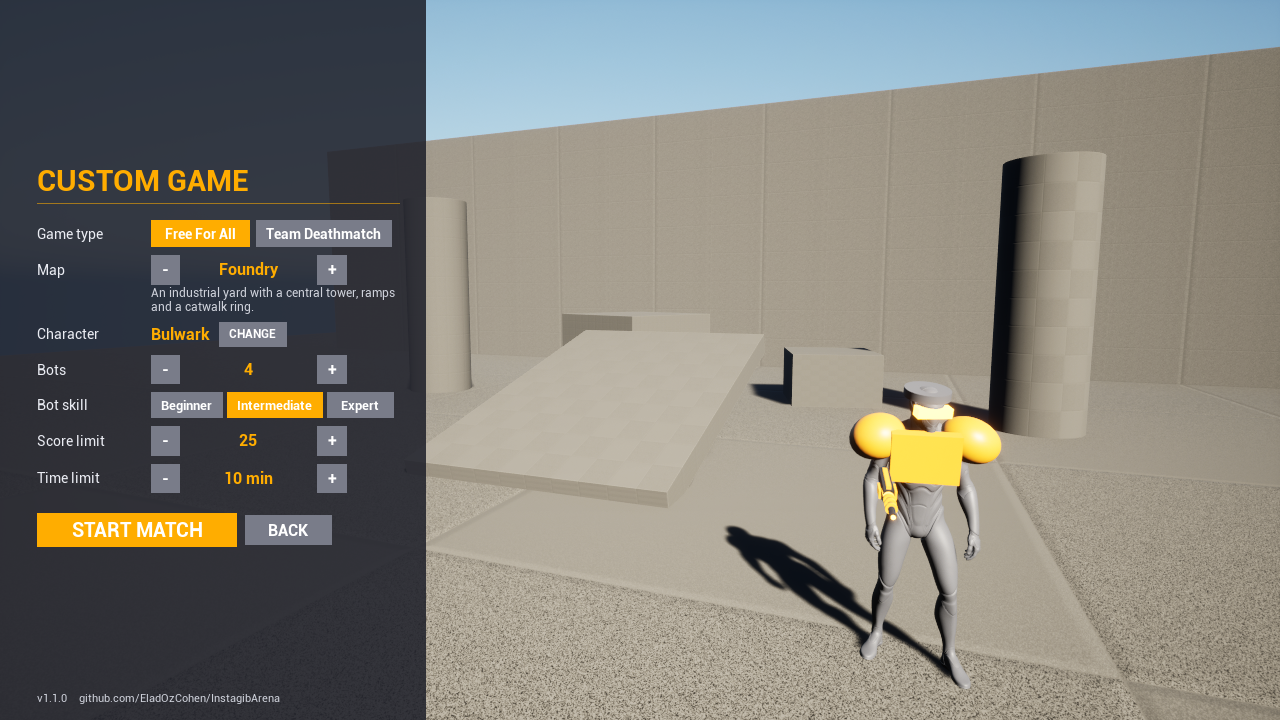
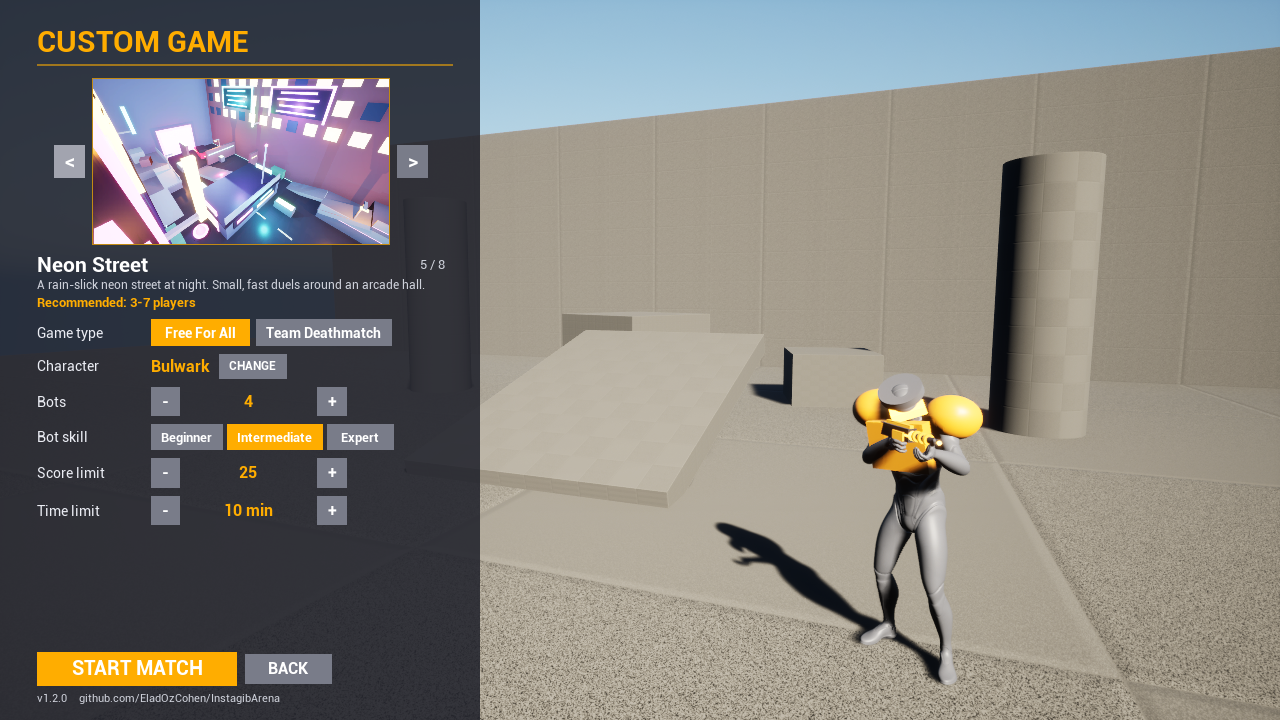
Release 1.2.0 prep: screenshots, clean mannequin restore (no control rigs, no nesting)

diff --git a/README.md b/README.md
@@ -58,8 +58,10 @@ Requirements: Windows 10 or 11 (64-bit) and a graphics card that supports Direct
 
 | | |
 |---|---|
-| ![Skyline](docs/images/skyline.png) | ![Temple](docs/images/temple.png) |
-| ![First person](docs/images/first_person.png) | ![Hit effects](docs/images/hit_effects.png) |
+| ![Neon Street](docs/images/neon.png) | ![Canyon](docs/images/canyon.png) |
+| ![Glacier](docs/images/glacier.png) | ![Skyline](docs/images/skyline.png) |
+| ![Temple](docs/images/temple.png) | ![First person](docs/images/first_person.png) |
+| ![Hit effects](docs/images/hit_effects.png) | |
 | ![Characters 5-9](docs/images/characters_5-9.png) | ![Characters 10-14](docs/images/characters_10-14.png) |
 
 ### Controls
